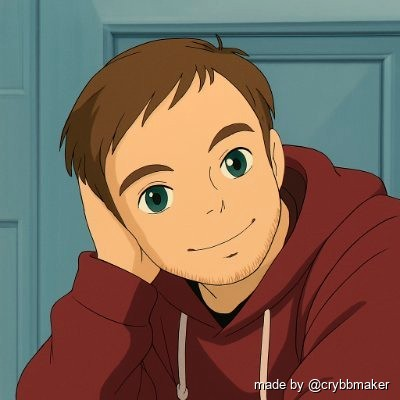
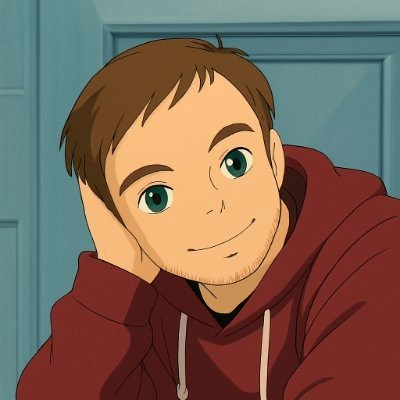
Remove watermark functionality entirely
- Removed WATERMARK_TEXT from Config class and all references
- Simplified ImageProcessor to remove watermark drawing logic
- Updated orchestrator, tests, and diagnostics to remove watermark parameters
- Removed watermark references from README and documentation
- Updated droplet .env to remove WATERMARK_TEXT
- Image generation now works without any text overlay or watermark

All functionality preserved except watermark text overlay.

Changed region(s): [[0.63, 0.93, 0.99, 0.99]]

diff --git a/src/image_processor.py b/src/image_processor.py
@@ -2,8 +2,7 @@
 Image processing module for CryBB Maker Bot.
 Now placeholder-only: overlay and facial landmark logic removed.
 """
-from typing import Optional
-from PIL import Image, ImageDraw, ImageFont, ImageEnhance
+from PIL import Image, ImageEnhance
 import io
 from .config import Config
 
@@ -11,8 +10,8 @@ from .config import Config
 class ImageProcessor:
     """Image processing utilities (placeholder-only)."""
 
-    def apply_placeholder(self, pfp_bytes: bytes, watermark: Optional[str] = None) -> bytes:
-        """Apply placeholder transformation with light enhancements and optional watermark."""
+    def apply_placeholder(self, pfp_bytes: bytes) -> bytes:
+        """Apply placeholder transformation with light enhancements."""
         try:
             image = Image.open(io.BytesIO(pfp_bytes))
             if image.mode != 'RGB':
@@ -26,9 +25,6 @@ class ImageProcessor:
             enhancer = ImageEnhance.Color(image)
             image = enhancer.enhance(1.05)
 
-            if watermark:
-                image = self._add_watermark(image, watermark)
-
             output = io.BytesIO()
             image.save(output, format='JPEG', quality=Config.JPEG_QUALITY, optimize=True)
             return output.getvalue()
@@ -36,29 +32,6 @@ class ImageProcessor:
             print(f"Error applying placeholder transformation: {e}")
             raise
 
-    def render(self, pfp_bytes: bytes, watermark: Optional[str] = None) -> bytes:
+    def render(self, pfp_bytes: bytes) -> bytes:
         """Main render function: returns placeholder image bytes."""
-        return self.apply_placeholder(pfp_bytes, watermark)
-
-    def _add_watermark(self, image: Image.Image, watermark_text: str) -> Image.Image:
-        """Add watermark text to bottom-right of the image."""
-        try:
-            draw = ImageDraw.Draw(image)
-            try:
-                font_size = max(12, image.width // 30)
-                font = ImageFont.truetype("/System/Library/Fonts/Arial.ttf", font_size)
-            except Exception:
-                font = ImageFont.load_default()
-
-            bbox = draw.textbbox((0, 0), watermark_text, font=font)
-            text_width = bbox[2] - bbox[0]
-            text_height = bbox[3] - bbox[1]
-            x = image.width - text_width - 10
-            y = image.height - text_height - 10
-
-            draw.text((x + 1, y + 1), watermark_text, font=font, fill=(0, 0, 0))
-            draw.text((x, y), watermark_text, font=font, fill=(255, 255, 255))
-            return image
-        except Exception as e:
-            print(f"Error adding watermark: {e}")
-            return image
+        return self.apply_placeholder(pfp_bytes)

diff --git a/src/config.py b/src/config.py
@@ -24,7 +24,6 @@ class Config:
     # Bot configuration
     BOT_HANDLE: str = os.getenv("BOT_HANDLE", "crybbmaker")
     POLL_SECONDS: int = int(os.getenv("POLL_SECONDS", "30"))
-    WATERMARK_TEXT: Optional[str] = os.getenv("WATERMARK_TEXT", "made by @crybbmaker")
     PORT: int = int(os.getenv("PORT", "8000"))
     TWITTER_MODE: str = os.getenv("TWITTER_MODE", "live")  # live | dryrun | mock
     OUTBOX_DIR: str = os.getenv("OUTBOX_DIR", "outbox")

diff --git a/tools/simulate_once.py b/tools/simulate_once.py
@@ -65,7 +65,7 @@ def main() -> int:
         print("Failed to download image bytes; aborting.")
         return 1
 
-    out_bytes = processor.render(img_bytes, watermark=Config.WATERMARK_TEXT)
+    out_bytes = processor.render(img_bytes)
     reply_text = format_friendly_message(target)
     client.reply_with_image(tweet_id, reply_text, out_bytes)
 

diff --git a/tools/run_diagnostics.py b/tools/run_diagnostics.py
@@ -128,7 +128,7 @@ def step_image_pipeline(artifacts_dir: str) -> Dict[str, Any]:
         from src.config import Config
 
         ip = ImageProcessor()
-        out_bytes = ip.render(pfp, watermark=Config.WATERMARK_TEXT)
+        out_bytes = ip.render(pfp)
         if not out_bytes:
             return fail(name, "Renderer returned empty bytes")
 

diff --git a/src/pipeline/orchestrator.py b/src/pipeline/orchestrator.py
@@ -9,7 +9,7 @@ def render_placeholder_bytes(pfp_url: str, cfg) -> bytes:
     r = requests.get(pfp_url, timeout=cfg.HTTP_TIMEOUT_SECS)
     r.raise_for_status()
     img_bytes = r.content
-    return ImageProcessor().render(img_bytes, watermark=cfg.WATERMARK_TEXT)
+    return ImageProcessor().render(img_bytes)
 
 
 class Orchestrator:

diff --git a/reports/diagnostics_20251007_230513.md b/reports/diagnostics_20251007_230513.md
@@ -1,0 +1,27 @@
+### CryBB Diagnostics Report
+
+- **timestamp**: 2025-10-07T23:05:17
+- **git_sha**: b94a8bc
+- **mode**: mock
+
+- **summary**: PASS=7 FAIL=2 SKIP=2
+
+| Check | Status | Details |
+|---|---|---|
+| Environment / Config | PASS | All required env present |
+| Dependencies | PASS | Dependencies status recorded |
+| Image Pipeline | PASS | Rendered 27033 bytes |
+| AI Pipeline (nano-banana) | FAIL | 404 Client Error: Not Found for url: https://pbs.twimg.com/profile_images/1354481591171891202/Pl0n4YkU.jpg |
+| Author Fallback | PASS | Outbox reply found |
+| Rate Limiter | PASS | Denied on 6th request as expected |
+| Since_ID Persistence | PASS | since_id persisted |
+| Twitter Probe | SKIP | Mock mode: no network calls |
+| Outbox / No-Post Result | PASS | Outbox verified |
+| Health Server | SKIP | Server not running on http://127.0.0.1:8000 |
+| Dockerfile / Healthcheck | FAIL | Dockerfile missing |
+
+### Artifacts
+- [input](reports/artifacts/pipeline_input.jpg)
+- [output](reports/artifacts/pipeline_output.jpg)
+- [media](reports/artifacts/media.jpg)
+- [reply](reports/artifacts/reply.json)

diff --git a/README.md b/README.md
@@ -93,7 +93,6 @@ ACCESS_SECRET=your_access_secret
 BEARER_TOKEN=your_bearer_token
 BOT_HANDLE=crybbmaker
 POLL_SECONDS=15
-WATERMARK_TEXT=made by @crybbmaker
 PORT=8000
 ```
 
@@ -353,7 +352,6 @@ Test overlay placement and styling without Twitter API:
 - `--smart-placement auto|on|off` - Use OpenCV for face detection
 - `--scale 0.60` - Overlay scale factor (0-1)
 - `--y-factor 0.35` - Vertical position (0-1)
-- `--watermark "text"` - Watermark text (empty disables)
 
 ### Smart Placement
 
@@ -382,7 +380,6 @@ The codebase is designed for easy extension:
 - [ ] Redis/SQLite storage for production
 - [ ] Webhook ingestion (Account Activity API)
 - [ ] Multiple overlay support
-- [ ] Custom watermark positioning
 
 ## Troubleshooting
 

diff --git a/LIVE_TESTING_SETUP.md b/LIVE_TESTING_SETUP.md
@@ -67,7 +67,6 @@ IMAGE_PIPELINE=ai
 CRYBB_STYLE_URL=https://crybb-assets-p55s0u52l-juliovivas99s-projects.vercel.app/crybb.jpeg
 
 # Optional
-WATERMARK_TEXT=
 ```
 
 ### Step 2: Test Locally (Debug Mode)
